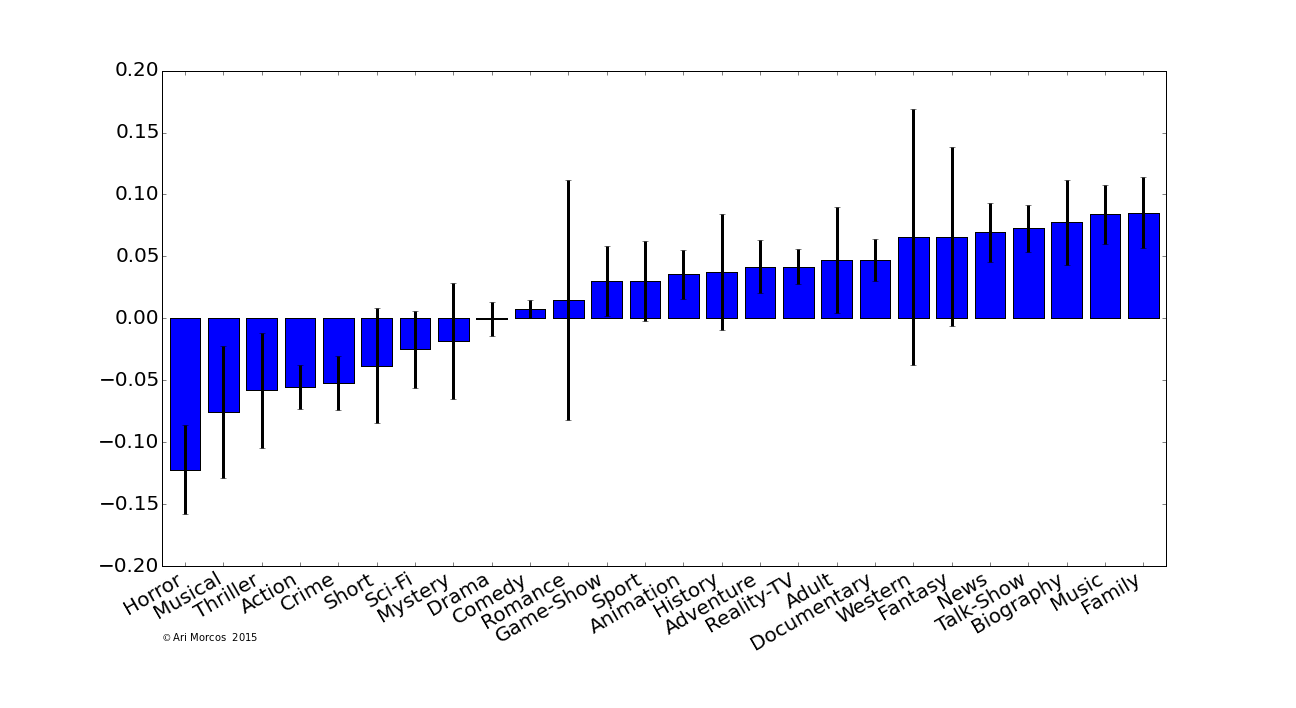
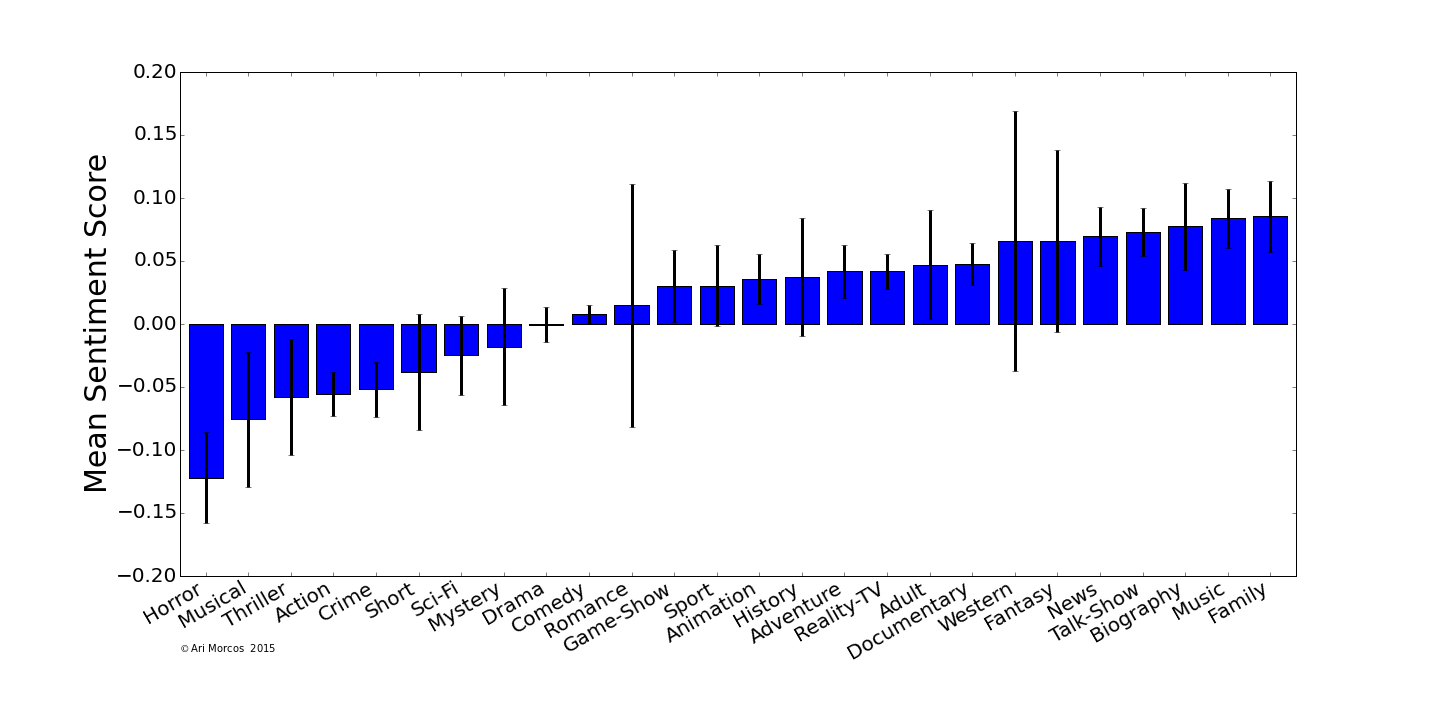
Added mean sentiment score ylabel to genreScores

diff --git a/blog.py b/blog.py
@@ -5,5 +5,5 @@ from views import *
 
 if __name__ == "__main__":
     # run on the local host so that anyone can see it
-    app.run(host='0.0.0.0', debug=True)
+    app.run(host='0.0.0.0', debug=False)
     # freezer.run(debug=True)
